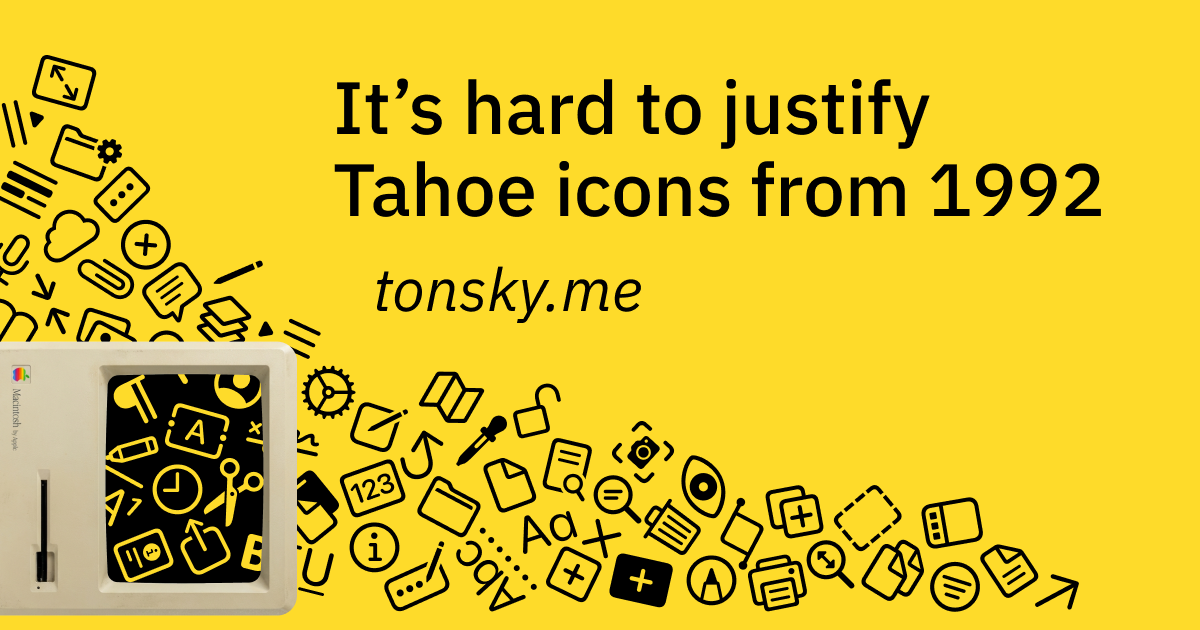
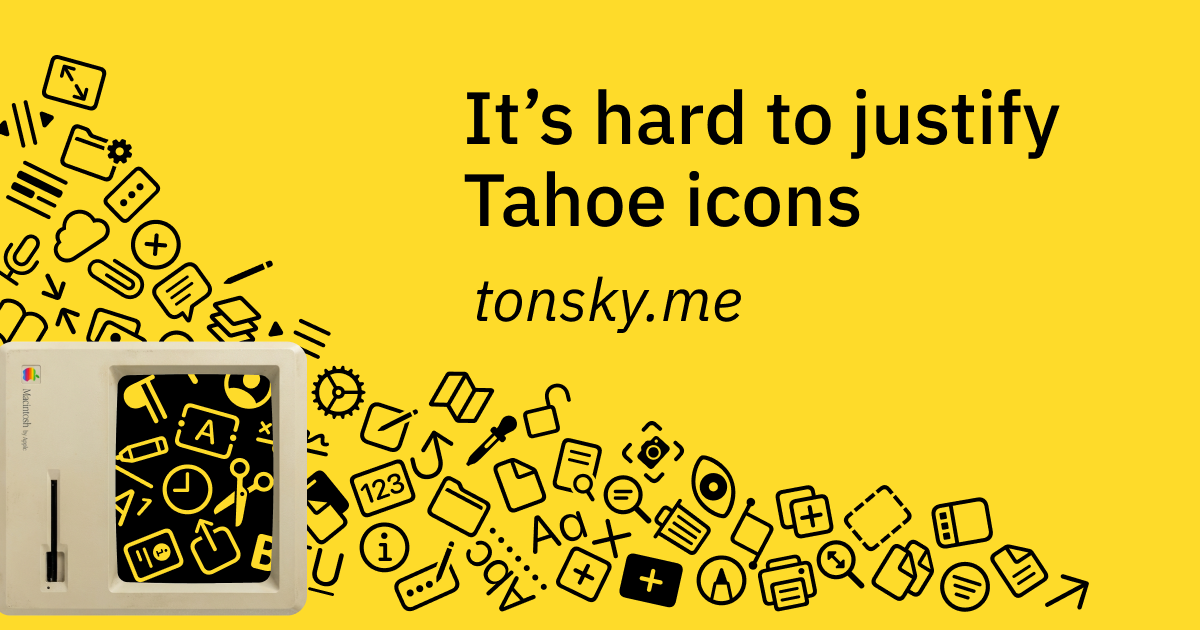
Title update, supercover timestamp, typos

diff --git a/site/blog/tahoe-icons/index.md b/site/blog/tahoe-icons/index.md
@@ -1,5 +1,5 @@
 ---
-title: "It’s hard to justify Tahoe icons from 1992"
+title: "It’s hard to justify Tahoe icons"
 summary: "Looking at the first principles of icon design—and how Apple failed to apply all of them in macOS Tahoe"
 supercover: cover.webp
 og_facebook: open_graph_facebook_smol.png
@@ -229,7 +229,7 @@ Icons are supposed to be easily recognizable from a distance. Every icon designe
 
 And icons in Tahoe menus are _tiny_. Most of them fit in a 12×12 pixel square (actual resolution is 24×24 because of Retina), and because many of them are not square, one dimension is usually even less than 12.
 
-It’s not a lot of space to work with! Even Windows 95 had 16×16 icons. If we take the typical DPI of that era at 72 dots per inch, we get a physical icon size of 0.22 inches (5.6 mm). On a modern MacBook Pro with 254 DPI, Tahoe’s 24×24 icons are 0.09 inches (2.4 mm). Sure, 24 is bigger than 16, but in reality, these icons are twice as small!
+It’s not a lot of space to work with! Even Windows 95 had 16×16 icons. If we take the typical DPI of that era at 72 dots per inch, we get a physical icon size of 0.22 inches (5.6 mm). On a modern MacBook Pro with 254 DPI, Tahoe’s 24×24 icons are 0.09 inches (2.4 mm). Sure, 24 is bigger than 16, but in reality, these icons’ area is 4 times as small!
 
 dpi_comparison@2x.webp
 Simulated physical size comparison between 16×16 at 72 DPI (left) and 24×24 at 254 DPI (right)
@@ -537,7 +537,7 @@ But even if there were, the premise itself is questionable: if everything has an
 
 And even if the premise was solid, I still wish I could say: they did the best they could, given the goal. But that’s not true either: they did a poor job consistently applying the metaphors and designing the icons themselves.
 
-I hope this article would be helpful in avoiding common mistakes in icon design, which Apple managed to collect all in one OS release. I love computers, I love interfaces, I love visual communication. It makes me sad seeing perfectly good knowledge already accessible 30 years ago beign completely ignored or thrown away today.
+I hope this article would be helpful in avoiding common mistakes in icon design, which Apple managed to collect all in one OS release. I love computers, I love interfaces, I love visual communication. It makes me sad seeing perfectly good knowledge already accessible 30 years ago being completely ignored or thrown away today.
 
 On the upside: it’s not that hard anymore to design better than Apple! Let’s drink to that. Happy New year!
 
@@ -546,6 +546,8 @@ From SF Symbols: a smiley face calling somebody on the phone
 
 # Notes
 
-During review of this post I was made familiar with [Jim Nilsen’s article](https://blog.jim-nielsen.com/2025/icons-in-menus/), which hits a lot of the same points as I do. I take that as a sign there’s some common truth behind our reasoning. (Also note: looks like Safari/File menu got worse since 26.0. Used to have only 4 icons, now it’s 18!)
+During review of this post I was made familiar with [Jim Nielsen’s article](https://blog.jim-nielsen.com/2025/icons-in-menus/), which hits a lot of the same points as I do. I take that as a sign there’s some common truth behind our reasoning.
+
+Also note: Safari → File menu got worse since 26.0. Used to have only 4 icons, now it’s 18!
 
 Thanks Kevin, Ryan, and Nicki for reading drafts of this post.
